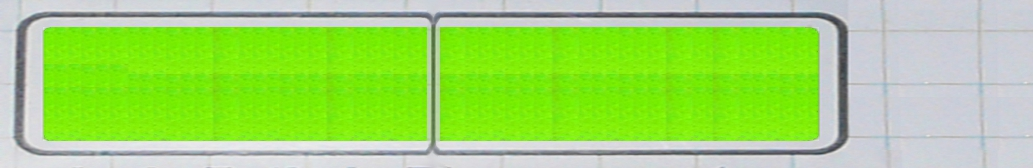
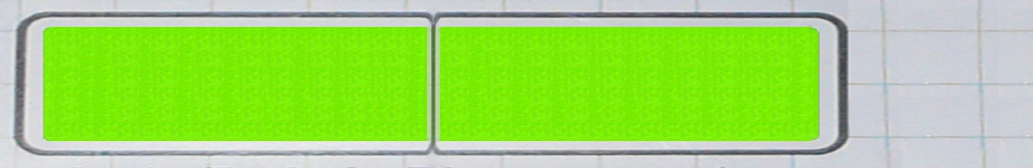
cleaner display (Display.jpg)

diff --git a/gtk_stuff.py b/gtk_stuff.py
@@ -149,7 +149,7 @@ def main_window():
 
     def draw_pixbuf(widget, event):
         """ add the picture to the window """
-        path = cfg.EXE_DIR + '/bilder/Display.jpg'
+        path = cfg.EXE_DIR + '/bilder/Display.png'
         pixbuf = gtk.gdk.pixbuf_new_from_file(path)
         widget.window.draw_pixbuf(widget.style.bg_gc[gtk.STATE_NORMAL], \
                 pixbuf, 0, 0, 0,0)
